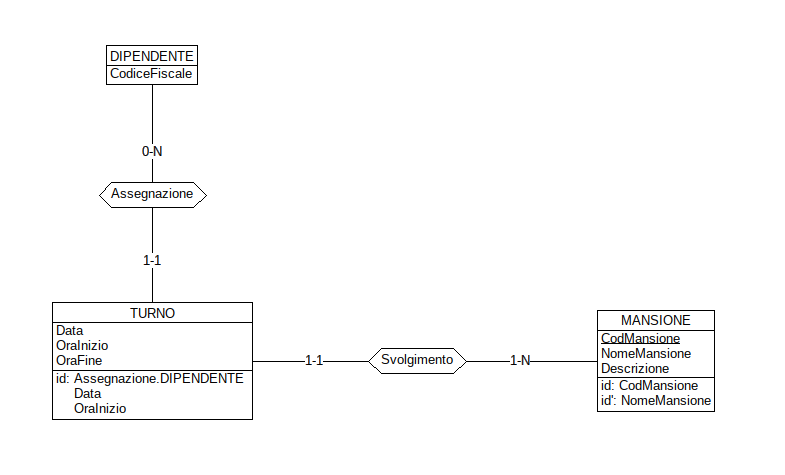
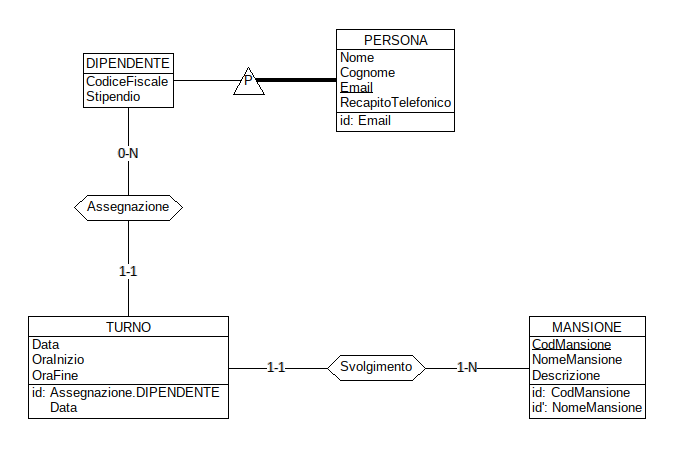
Terminata parte schemi scheletro

diff --git a/relazioneDB/capitoli/03_progettazione_concettuale.tex b/relazioneDB/capitoli/03_progettazione_concettuale.tex
@@ -24,7 +24,7 @@ e arricchendolo progressivamente per area tematica.
   \item L'entita \entita{Proprietario} è una specializzazione del concetto più generale di persona. Verrà
         quindi aggiunta l'entità \entita{Persona} come generalizzazione.
   \item Per ogni prodotto va memorizzata la categoria ma poiché le categorie saranno poche e molto ripetute
-        è opportuna la creazione di un entità \entita{Categoria} che sara in associazione 1 a N con
+        è opportuna la creazione di un entità \entita{Categoria} che sar\`{a} in associazione 1 a N con
         l'entità \entita{Prodotto}
   \item Il \entita{Catalogo} è meglio rappresentato da un entità così da poter garantire l'esistenza della corrispondenza tra
         prodotto e fornitore quando viene effettuato un ordine.
@@ -47,7 +47,7 @@ devono avere come fornitore lo stesso dell'ordine.
 \end{notabox}
 
 % -- 3.2 Area Dipendenti ------------------------------------
-\section{Area Dipendenti} % SCHEMA DA FARE
+\section{Area Dipendenti} % ANDATA A CAPO (NUOVA PAGINA) PRIMA DI QUESTO
 
 \subsection{Schema Scheletro}
 \begin{figure}[H]
@@ -69,14 +69,13 @@ devono avere come fornitore lo stesso dell'ordine.
 
 \begin{notabox}[Vincolo implicito]
 Un dipendente non pu\`{o} lavorare, durante un turno, due volte per due lassi di tempo sovrapposti. 
-Questo vincolo non \`{e} esprimibile nello schema E/R ma verr\`{a} implementato tramite
-\texttt{CHECK} o trigger nel database.
+Questo vincolo non \`{e} esprimibile nello schema ma sar\'{a} realizzato nell'applicativo.
 \end{notabox}
 
 \subsection{Schema completo}
 \begin{figure}[H]
   \centering
-  \includegraphics[width=0.9\textwidth]{immagini/03/schemaCompletoDipendenti.png} % NELL'IMMAGINE MANCA L'ENTITA PERSONA!!!!!
+  \includegraphics[width=0.9\textwidth]{immagini/03/schemaCompletoDipendenti.png}
   \caption{Schema completo dell'area dipendenti e turni}
   \label{fig:schemaDipendenti}
 \end{figure}
@@ -94,9 +93,16 @@ Questo vincolo non \`{e} esprimibile nello schema E/R ma verr\`{a} implementato 
 
 \subsection{Raffinamenti Proposti}
 \begin{itemize}
-  \item L'entita \entita{Cliente} è una specializzazione del concetto più generale di persona. Verrà
+  \item L'entit\`{a} \entita{Cliente} è una specializzazione del concetto più generale di persona. Verrà
         quindi aggiunta l'entità \entita{Persona} come generalizzazione.
-  \item Il prezzo di un singolo noleggio
+  \item Il concetto di \entita{Lettino} non è stato modellato come precedentemente spiegato nella sezione~\ref{sec:lettino}
+  \item Il prezzo di un noleggio, essendo fisso e dipendente solo dalla \textit{mezza giornata} oppure \textit{giornata intera}
+        porta alla scelta di aggiungere una nuova entit\`{a} \entita{Tariffe\_Noleggio}
+  \item Il prezzo di un \entita{Abbonamento} o di una \entita{Prenotazione} richiedono entrambe la fila dove 
+        quest'ultimo è posizionato, quindi si è deciso di aggiungere l'entit\`{a} \entita{Fila} contenente 
+        il prezzo specifico per ognuna
+  \item Gli attributi aggiunti chiamati \textit{Pagamento} sono attributi \textit{booleani} che indicano lo 
+        stato del pagamento (in caso il cliente voglia pagare in momento diverso dalla richiesta)
 \end{itemize}
 
 \begin{notabox}[Vincolo implicito]
@@ -105,25 +111,13 @@ vincolo non \`{e} esprimibile nello schema E/R ma verr\`{a} implementato tramite
 \texttt{CHECK} o trigger nel database.
 \end{notabox}
 
-\subsection{Area: Ombrelloni}
-
-\textbf{Decisione:} l'attributo \textit{posizione} viene decomposto in
-\attributo{fila} (lettera, es. A--Z) e \attributo{numero} (intero progressivo).
-La coppia (fila, numero) costituisce l'identificatore naturale dell'ombrellone.
-
-\textbf{Decisione:} \attributo{numeroLettini} e \attributo{numeroSedie} rimangono
-attributi dell'entit\`{a} \entita{Ombrellone} e non diventano entit\`{a} separate, in
-quanto non hanno attributi propri rilevanti ai fini del sistema.
-
-\subsection{Area: Magazzino, Prodotti e Ordini}
-
-\textbf{Decisione:} si introduce l'associazione \relazione{Contiene} tra
-\entita{Ordine} e \entita{Prodotto} con l'attributo \attributo{quantit\`{a}Ordinata}.
-Questa associazione permette di gestire ordini multi-prodotto.
-
-\textbf{Decisione:} l'attributo \attributo{quantit\`{a}} di \entita{Prodotto}
-rappresenta la giacenza attuale in magazzino. Quando un ordine viene confermato,
-la quantit\`{a} viene aggiornata automaticamente (trigger).
+\subsection{Schema completo}
+\begin{figure}[H]
+  \centering
+  \includegraphics[width=0.9\textwidth]{immagini/03/schemaCompletoSpiaggia.png}
+  \caption{Schema completo dell'area spiaggia}
+  \label{fig:schemaSpiaggia}
+\end{figure}
 
 % -- 3.4 Schema concettuale finale ---------------------------
 \section{Schema concettuale finale}

diff --git a/relazioneDB/capitoli/02_analisi_requisiti.tex b/relazioneDB/capitoli/02_analisi_requisiti.tex
@@ -61,7 +61,7 @@ per ogni prodotto nel catalogo serve memorizzare il prezzo a cui lo specifico fo
 A seguito della lettura dei requisiti sono state individuate le seguenti ambiguità
 e si propongono le relative correzioni.
 
-\subsection{Lettino}
+\subsection{Lettino}\label{sec:lettino}
 \textbf{Decisione:} Si evita di creare l'entit\`{a} lettino.
 
 \textbf{Motivazione:} \entita{Lettino}, intesa come unità fisica singola, non viene 
@@ -86,7 +86,7 @@ forma di acquisto di un servizio, ma sono intrinsecamente diverse:
     con prezzo relativo alla \textit{posizione}.
 \end{itemize}
 
-\subsection{Terminologia ambigua} % TERMINOLOGIA
+\subsection{Terminologia ambigua} % TERMINOLOGIA 
 
 A seguito la spiegazione di alcuni termini ambigui o non chiari precedentemente citati:
 \begin{itemize}

diff --git a/relazioneDB/capitoli/00_frontespizio.tex b/relazioneDB/capitoli/00_frontespizio.tex
@@ -40,6 +40,9 @@
     \raggedleft
     \textbf{Docente:}\\[0.3cm]
     Prof.ssa Annalisa Franco
+    \textbf{Tutor:}\\[0.3cm]
+    Fabio Notaro
+    Nicol\`{o} Di Domenico
   \end{minipage}
 
   \vspace{1.5cm}
